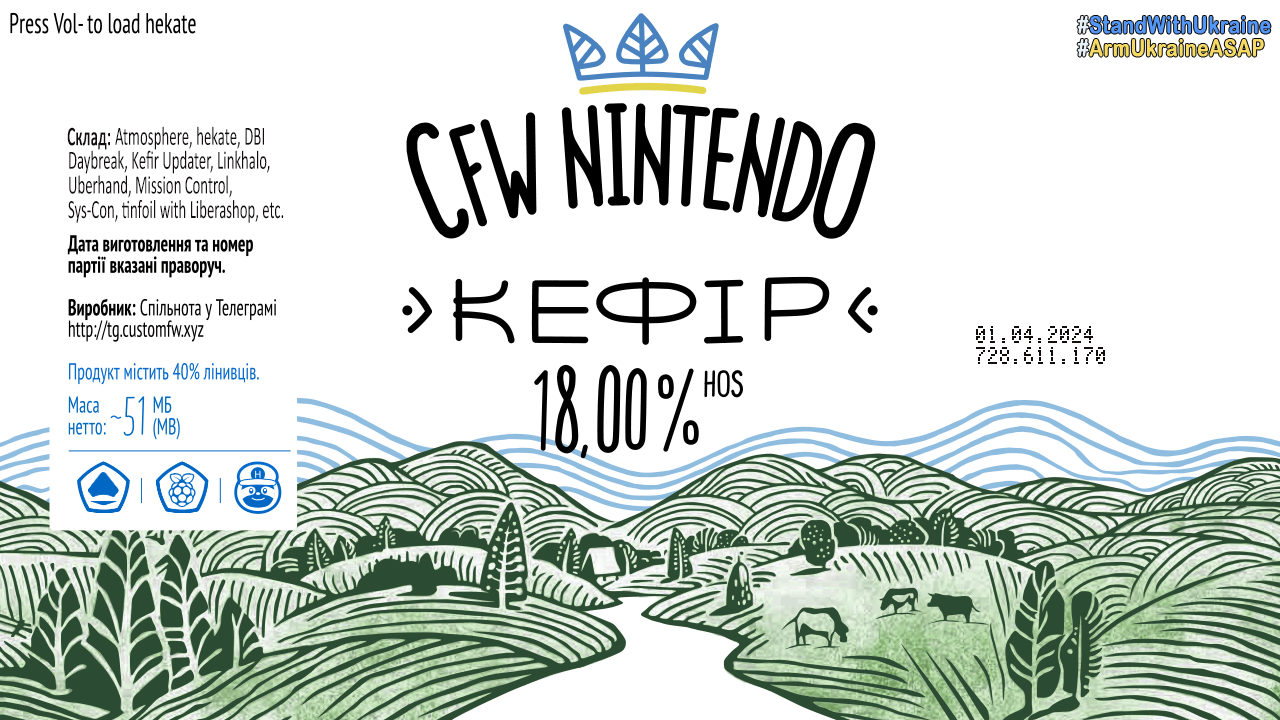
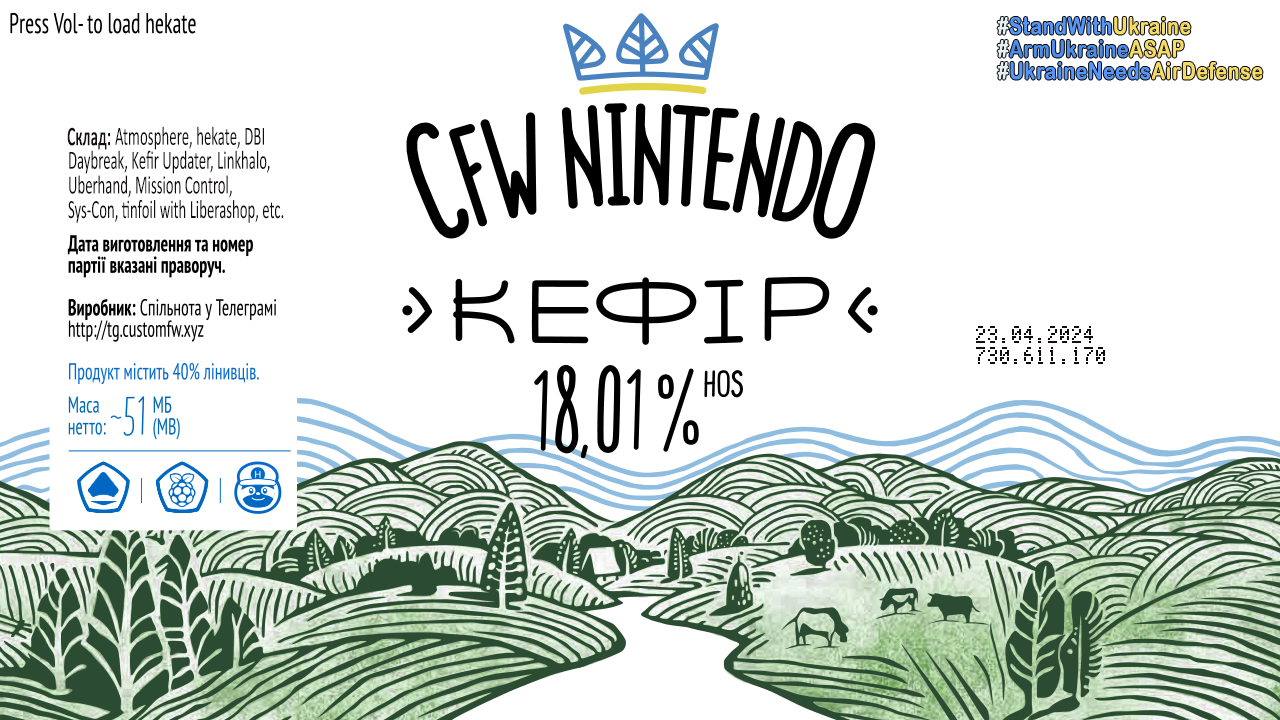
kefir730

Changed region(s): [[0.7812, 0.0, 1.0, 0.1222], [0.4688, 0.5194, 0.5312, 0.6417]]

diff --git a/kefir.html b/kefir.html
@@ -349,7 +349,7 @@
 <nav class="toc">
     <header><h4 class="nav__title"><i class="fa fa-file-text"></i> Разделы</h4></header>
 <ul class="toc__menu" id="markdown-toc">
-  <li><a href="#kefir-728" id="markdown-toc-kefir-728">KEFIR 728</a>    <ul>
+  <li><a href="#kefir-730" id="markdown-toc-kefir-730">KEFIR 730</a>    <ul>
       <li><a href="#что-такое-кефир" id="markdown-toc-что-такое-кефир">Что такое кефир</a></li>
       <li><a href="#инструкция-по-установкеобновлению-kefir" id="markdown-toc-инструкция-по-установкеобновлению-kefir">Инструкция по установке/обновлению kefir</a></li>
     </ul>
@@ -389,7 +389,7 @@
 
 <hr />
 
-<h2 id="kefir-728"><a href="https://github.com/rashevskyv/kefir/releases" target="_blank">KEFIR 728</a></h2>
+<h2 id="kefir-730"><a href="https://github.com/rashevskyv/kefir/releases" target="_blank">KEFIR 730</a></h2>
 
 <p class="text-center"><img src="/images/kefir.png" alt="kefir" width="70%" /></p>
 
@@ -642,86 +642,41 @@
 <h3 id="изменения-от-прошлой-версии">Изменения от прошлой версии</h3>
 
 <h4 id="ukr"><strong>UKR</strong>:</h4>
-<p><strong>Базова підтримка 18.0.0. Рекомендується тримати emuNAND на 17.0.1</strong></p>
+<p><strong>Повна підтримка 18.0.1</strong></p>
 
-<p><strong>728:</strong> 
- [<strong>Оновлено</strong>] <a href="https://github.com/ndeadly/MissionControl">MissionControl 0.11.0</a> - офіційна підтримка 18.0.0, додані контролери, виправлені помилки</p>
-
-<p><strong>727:</strong> 
- [<strong>Оновлено</strong>] <a href="https://github.com/ndeadly/MissionControl">MissionControl</a> - перезібрано з підтримкою 18.0.0</p>
-
-<p><strong>726:</strong></p>
-<ul>
-  <li>[<strong>Оновлено</strong>] <a href="https://github.com/rashevskyv/Kefirosphere">Atmosphere 1.7.0 pre-release</a> - базова підтримка 18.0.0. Рекомендується тримати emuNAND на 17.0.1, поки підтрика не буде повною. Також сігпатчі вшиті в саму атмосферу (дякую db)
-    <ul>
-      <li><a href="https://github.com/Atmosphere-NX/Atmosphere/releases"><strong>Детальніше про зміни в Atmosphere</strong></a></li>
-    </ul>
-  </li>
-  <li>[<strong>Оновлено</strong>] <a href="https://github.com/CTCaer/hekate/releases">hekate 6.1.1</a>
-    <ul>
-      <li>Підтримка 18.0.0</li>
-      <li>Замість помилки pkg1 тепер консоль буде грузитися в офіційну прошивку</li>
-    </ul>
-  </li>
-  <li>[<strong>Оновлено</strong>] [lockpick_RCM] - підтримка 18.0.0</li>
-  <li>[<strong>Змінено</strong>] Замість <code class="language-plaintext highlighter-rouge">tinfoil.nsp</code> тепер інсталлер tinfoil в HBMenu</li>
-</ul>
+<p><strong>730:</strong> 
+[<strong>Оновлено</strong>] <a href="https://github.com/efosamark/Uberhand-Overlay/">Uberhand-Overlay 2.1.5</a>
+[<strong>Виправлено</strong>] <a href="https://github.com/rashevskyv/Kefirosphere">Kefirosphere</a> - знову відключено логування на картку пам’яті, яке було помилково відновлено чортову купу часо тому. Друг DB знову безмежна подяка! Патчі тепер повністю інтегровані в cистему, завдяки чому модуль іні-patch більше дійсно не потрібен 
+[<strong>Видалено</strong>] [sys-patch] - більше не потрібен, бо патчі інтегровані в систему
+[<strong>Змінено</strong>] [Загрузка Kefir] - тепер загрузка відбувається через fusee.bin, як це й задумано в Atmosphere, завдяки чому і є можливість інтегрувати патчі в саму атмосферу 
+[<strong>Додано</strong>] [Патчи] nifm-патч для 18.0.1. Дякую, DB 
+[<strong>Видалено</strong>] Тимчасово випилив розгін. За замовчанням його більше не буде у будь-якому випадку. Буде опційний, але пізніше. Наразі вимкнув взагалі, бо є консолі, які не тягнуть значення за замовчанням. А робити опційно зараз не маю часу.</p>
 
 <hr />
 
 <h4 id="rus"><strong>RUS</strong>:</h4>
-<p><strong>Базовая поддержка 18.0.0. Рекомендуется держать emuNAND на 17.0.1</strong></p>
+<p><strong>Полная поддержка 18.0.1</strong></p>
 
-<p><strong>728:</strong> 
-[<strong>Обновлено</strong>] <a href="https://github.com/ndeadly/MissionControl">MissionControl 0.11.0</a> - официальная поддержка 18.0.0, добавлены контроллеры, исправлены ошибки</p>
-
-<p><strong>727:</strong> 
- [<strong>Оновлено</strong>] <a href="https://github.com/ndeadly/MissionControl">MissionControl</a> - пересобрано для поддержки 18.0.0</p>
-
-<p><strong>726:</strong></p>
-<ul>
-  <li>[<strong>Обновлено</strong>] <a href="https://github.com/rashevskyv/Kefirosphere">Atmosphere 1.7.0 предварительная версия</a> - базовая поддержка 18.0.0. Рекомендуется держать emuNAND на 17.0.1, пока поддержка не будет полной. Также sigpatches интегрированы непосредственно в атмосферу (спасибо db)
-    <ul>
-      <li><a href="https://github.com/Atmosphere-NX/Atmosphere/releases"><strong>Подробнее об изменениях в Atmosphere</strong></a></li>
-    </ul>
-  </li>
-  <li>[<strong>Обновлено</strong>] <a href="https://github.com/CTCaer/hekate/releases">hekate 6.1.1</a>
-    <ul>
-      <li>Поддержка 18.0.0</li>
-      <li>Вместо ошибки pkg1 теперь консоль будет загружаться в официальную прошивку</li>
-    </ul>
-  </li>
-  <li>[<strong>Обновлено</strong>] [lockpick_RCM] - поддержка 18.0.0</li>
-  <li>[<strong>Изменено</strong>] Вместо <code class="language-plaintext highlighter-rouge">tinfoil.nsp</code> теперь инсталлятор tinfoil в HBMenu</li>
-</ul>
+<p><strong>730:</strong> 
+[<strong>Обновлено</strong>] <a href="https://github.com/efosamark/Uberhand-Overlay/">Uberhand-Overlay 2.1.5</a>
+[<strong>Исправлено</strong>] <a href="https://github.com/rashevskyv/Kefirosphere">Kefirosphere</a> - логирование на карту памяти снова отключено после того, как оно было ошибочно восстановлено чертову кучу времени назад. Бесконечная благодарность DB! Патчи теперь полностью интегрированы в систему, что исключает необходимость в модуле ini-patch.
+[<strong>Удалено</strong>] [sys-patch] - больше не нужен, поскольку патчи интегрированы в систему
+[<strong>Изменено</strong>] [Загрузчик Kefir] - теперь загрузка происходит через fusee.bin, как изначально предусмотрено в Atmosphere, что позволяет интегрировать патчи непосредственно в Atmosphere
+[<strong>Добавлено</strong>] [Патчи] nifm-патч для 18.0.1. Спасибо, DB
+[<strong>Удалено</strong>] Временно убрал разгон. По умолчанию его больше не будет в любом случае. Будет опциональным, но позже. Пока что отключил полностью, так как есть консоли, которые не тянут значения по умолчанию. И делать опциональным сейчас нет времени.</p>
 
 <hr />
 
 <h4 id="eng"><strong>ENG</strong>:</h4>
-<p><strong>Basic Support 18.0.0. Recommended to keep emuNAND on 17.0.1</strong></p>
+<p><strong>Full Support 18.0.1</strong></p>
 
-<p><strong>728:</strong> 
-[<strong>Updated</strong>] <a href="https://github.com/ndeadly/MissionControl">MissionControl 0.11.0</a> - official support for 18.0.0, added controllers, fixed bugs</p>
-
-<p><strong>727:</strong> 
- [<strong>Updated</strong>] <a href="https://github.com/ndeadly/MissionControl">MissionControl</a> - built with 18.0.0 support</p>
-
-<p><strong>726:</strong></p>
-<ul>
-  <li>[<strong>Updated</strong>] <a href="https://github.com/rashevskyv/Kefirosphere">Atmosphere 1.7.0 pre-release</a> - base support for 18.0.0. It is recommended to keep emuNAND on 17.0.1 until full support is available. Also, sigpatches are integrated into the atmosphere itself (thanks db)
-    <ul>
-      <li><a href="https://github.com/Atmosphere-NX/Atmosphere/releases"><strong>More about changes in Atmosphere</strong></a></li>
-    </ul>
-  </li>
-  <li>[<strong>Updated</strong>] <a href="https://github.com/CTCaer/hekate/releases">hekate 6.1.1</a>
-    <ul>
-      <li>Support for 18.0.0</li>
-      <li>Instead of a pkg1 error, the console will now boot into the official firmware</li>
-    </ul>
-  </li>
-  <li>[<strong>Updated</strong>] [lockpick_RCM] - support for 18.0.0</li>
-  <li>[<strong>Changed</strong>] Instead of <code class="language-plaintext highlighter-rouge">tinfoil.nsp</code>, there is now a tinfoil installer in HBMenu</li>
-</ul>
+<p><strong>730:</strong> 
+[<strong>Updated</strong>] <a href="https://github.com/efosamark/Uberhand-Overlay/">Uberhand-Overlay 2.1.5</a>
+[<strong>Fixed</strong>] <a href="https://github.com/rashevskyv/Kefirosphere">Kefirosphere</a> - logging to memory card has been disabled again after being mistakenly restored a hell of a long time ago. Endless thanks to DB! Patches are now fully integrated into the system, eliminating the need for the ini-patch module.
+[<strong>Removed</strong>] [sys-patch] - no longer needed as patches are integrated into the system
+[<strong>Changed</strong>] [Kefir Loader] - now loads through fusee.bin, as originally intended in Atmosphere, which allows for the integration of patches directly into the Atmosphere
+[<strong>Added</strong>] [Patches] nifm-patch for 18.0.1. Thanks, DB
+[<strong>Removed</strong>] Temporarily removed overclocking. It will no longer be included by default in any case. It will be optional, but later. For now, it has been completely disabled, as there are consoles that do not support the default settings. And I don’t have time to make it optional right now.</p>
 
 <hr />
 
